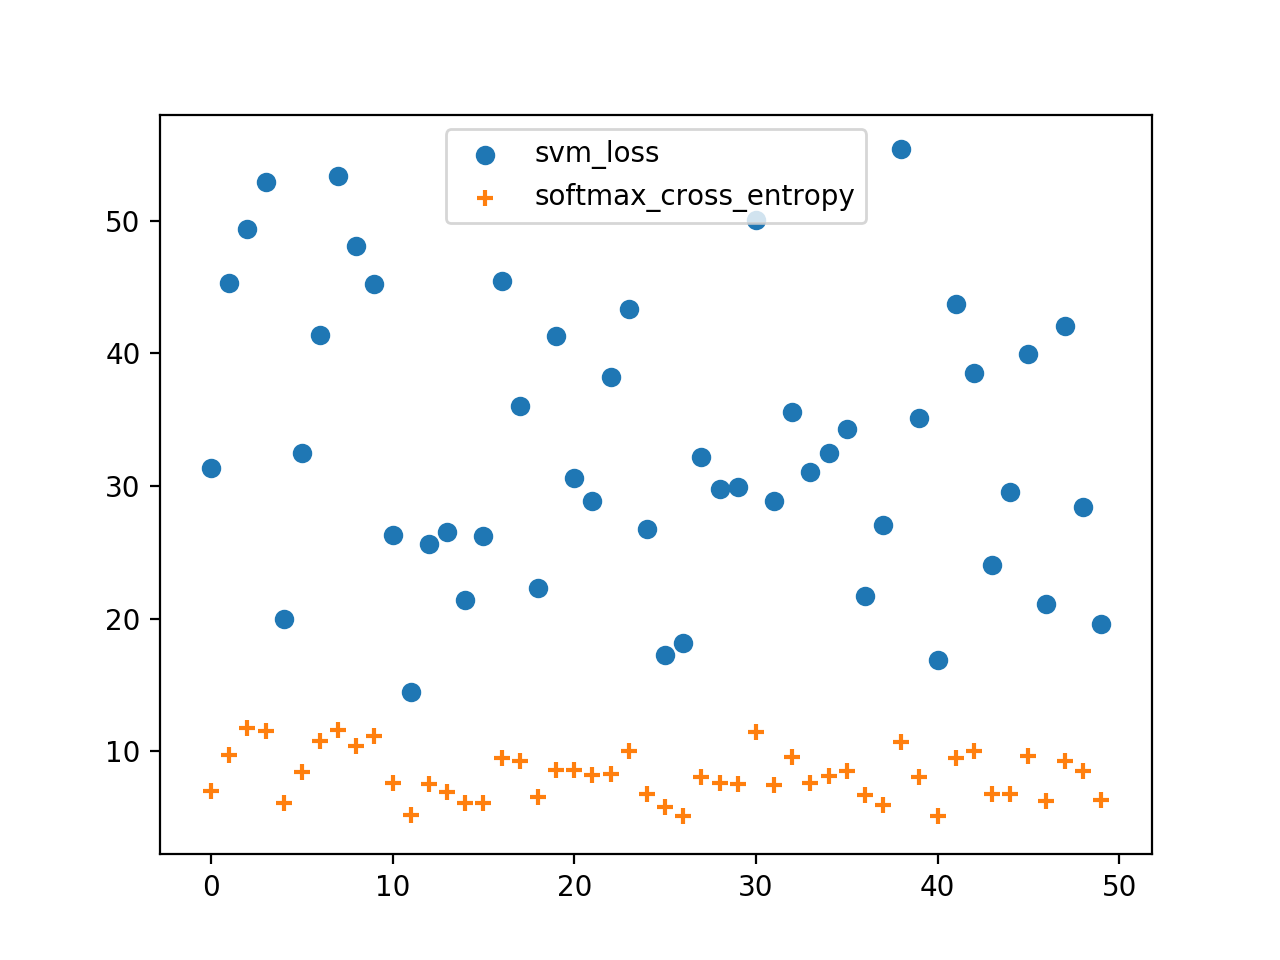
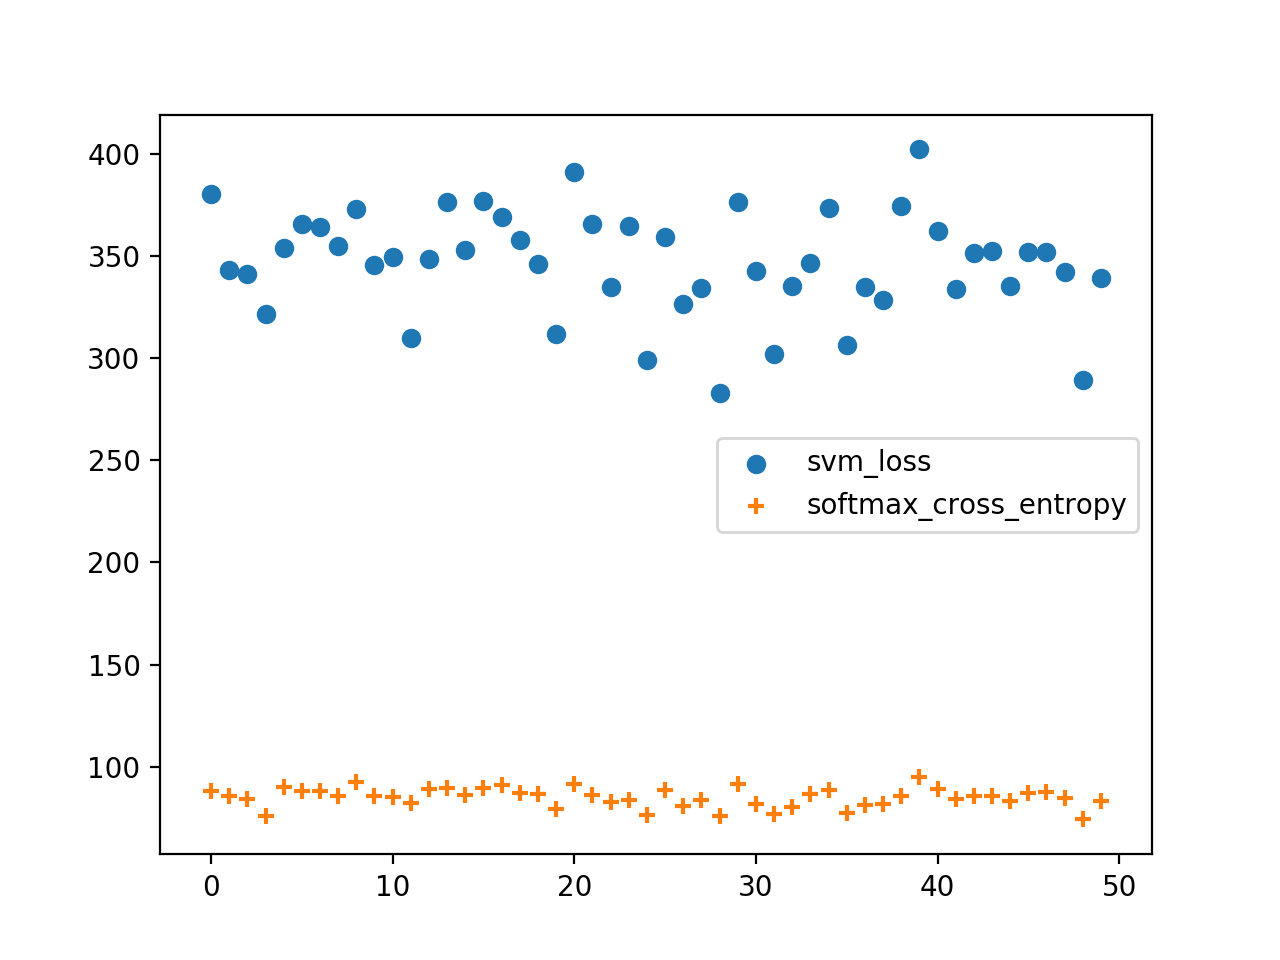
feat: edited the number of rows

diff --git a/amaratkhan_assignment2.py b/amaratkhan_assignment2.py
@@ -27,7 +27,7 @@ if __name__ == "__main__":
     for iteration in range(50):
         # generate matrix with random values in the range (-10,10)
         # 10 classes (rows) by 100 instances (columns)
-        array = 10*np.random.uniform(-1,1, (10,10))
+        array = 10*np.random.uniform(-1,1, (10,100))
 
         transposed = array.T # transpose array for accessing each column
 
